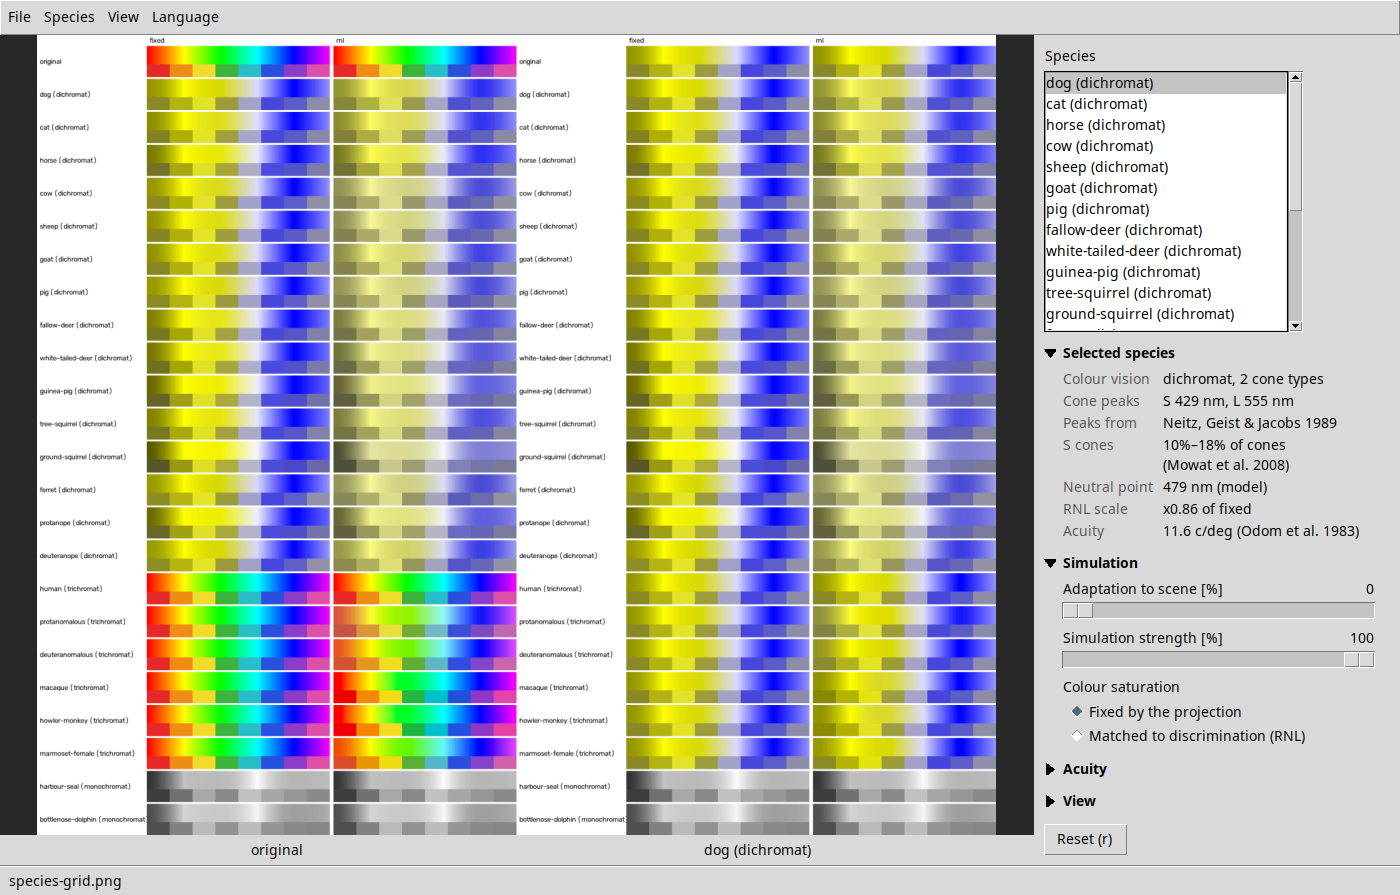
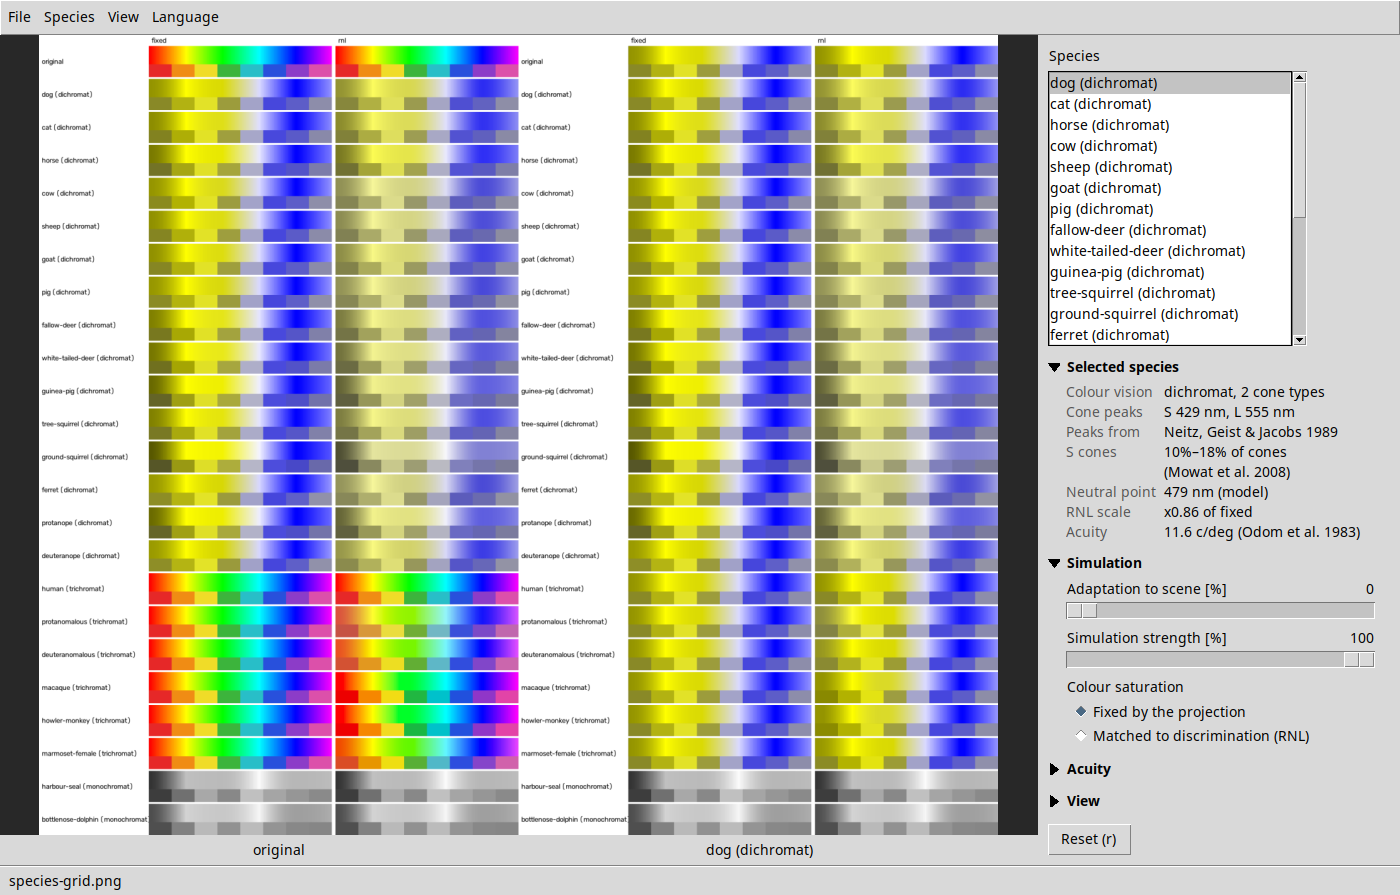
feat: let the selected species' facts be selected and copied
The facts were labels, which Tk cannot select, so a cone peak or a
citation had to be typed out by hand. They are now one read-only Text:
a drag selects, Ctrl+A selects all, and Ctrl+C or a right click copies,
each fact as its name, a tab and its value.

diff --git a/src/dog_vision/gui/tk.py b/src/dog_vision/gui/tk.py
@@ -120,19 +120,25 @@ def warn_without_xft(root: tk.Tk) -> None:
 
 
 class Tooltip:
-    """Text that appears beside the pointer while it rests on a widget."""
+    """Text that appears beside the pointer while it rests on a widget, or on a tag's text in a Text widget."""
 
-    def __init__(self, widget: tk.Misc, text) -> None:
+    def __init__(self, widget: tk.Misc, text, tag: str | None = None) -> None:
         self.widget = widget
         self.text = text  # called on showing, so it gives the current language
         self.window: tk.Toplevel | None = None
         self.pending: str | None = None
-        widget.bind("<Enter>", self._schedule, add="+")
-        for event in ("<Leave>", "<ButtonPress>", "<Destroy>"):
-            widget.bind(event, self._hide, add="+")
+        if tag is None:
+            widget.bind("<Enter>", self._schedule, add="+")
+            for event in ("<Leave>", "<ButtonPress>", "<Destroy>"):
+                widget.bind(event, self.hide, add="+")
+        else:
+            # A tag outlives its text, so whoever deletes the text hides the tooltip.
+            widget.tag_bind(tag, "<Enter>", self._schedule)
+            for event in ("<Leave>", "<ButtonPress>"):
+                widget.tag_bind(tag, event, self.hide, add="+")
 
     def _schedule(self, _event: tk.Event) -> None:
-        self._hide()
+        self.hide()
         self.pending = self.widget.after(TOOLTIP_DELAY_MS, self._show)
 
     def _show(self) -> None:
@@ -161,7 +167,7 @@ class Tooltip:
             y -= height + 32
         self.window.wm_geometry(f"+{max(0, x)}+{max(0, y)}")
 
-    def _hide(self, _event: tk.Event | None = None) -> None:
+    def hide(self, _event: tk.Event | None = None) -> None:
         if self.pending is not None:
             self.widget.after_cancel(self.pending)
             self.pending = None
@@ -381,8 +387,31 @@ def run(session: LiveSession) -> None:
     text(facts_section.title, "Selected species")
     facts_section.frame.grid(row=2, column=0, sticky="ew")
     facts_frame = facts_section.body
-    facts_frame.columnconfigure(1, weight=1)
     fact_font = font.nametofont("TkDefaultFont")
+    # Text, not labels, so that the facts can be selected and copied; a tab stop makes the values a column.
+    facts = tk.Text(
+        facts_frame,
+        width=1,  # the column's minsize gives the width
+        wrap="none",
+        font=fact_font,
+        borderwidth=0,
+        highlightthickness=0,
+        padx=0,
+        pady=0,
+        background=ttk.Style(root).lookup("TFrame", "background"),
+        foreground=ttk.Style(root).lookup("TLabel", "foreground") or "black",
+    )
+    facts.grid(row=0, column=0, sticky="ew")
+    facts.tag_configure("name", foreground="#555555")
+    fact_tooltips: list[Tooltip] = []
+    # A disabled Text is focused by a click only on Windows, and without focus Ctrl+C does not reach it.
+    facts.bind("<Button-1>", lambda _event: facts.focus_set(), add="+")
+
+    def select_all_facts() -> str:
+        facts.tag_add("sel", "1.0", "end-1c")
+        return "break"  # Tk's own Ctrl+A goes to the line's start
+
+    facts.bind("<Control-a>", lambda _event: select_all_facts())
     fact_widths: dict[str, int] = {}  # by language
 
     def fact_width() -> int:
@@ -408,13 +437,20 @@ def run(session: LiveSession) -> None:
         return "\n".join(lines)
 
     def show_facts() -> None:
-        for child in facts_frame.winfo_children():
-            child.destroy()
+        for tooltip in fact_tooltips:
+            tooltip.hide()
+        fact_tooltips.clear()
+        facts.configure(state="normal")
+        facts.delete("1.0", "end")
         for row, (label, value, description) in enumerate(session.species_facts()):
-            name = ttk.Label(facts_frame, text=label, foreground="#555555")
-            name.grid(row=row, column=0, sticky="nw", padx=(0, FACT_GAP))
-            Tooltip(name, lambda description=description: description)
-            ttk.Label(facts_frame, text=fact_text(value)).grid(row=row, column=1, sticky="w")
+            tag = f"name{row}"
+            facts.insert("end", "\n" if row else "")
+            facts.insert("end", label, ("name", tag))
+            # A fact's further lines start at the tab stop too, under its first.
+            facts.insert("end", "\t" + fact_text(value).replace("\n", "\n\t"))
+            fact_tooltips.append(Tooltip(facts, lambda description=description: description, tag))
+        lines = int(facts.index("end-1c").split(".")[0])
+        facts.configure(state="disabled", height=lines)
         fit_panel()  # species have more or fewer facts
 
     simulation = Section(side, section_font, is_open=True, on_toggle=fit_panel)
@@ -557,15 +593,12 @@ def run(session: LiveSession) -> None:
         Grid gives the panel the width its open sections ask for and the images the rest, so
         without this the images would narrow and widen as sections open and close.
         """
-        # Each column of the facts as wide as any species needs it, from labels measured but never shown.
+        # The names and the values of the facts, each as wide as any species needs them.
         rows = [row for name in session.species_names for row in session.species_facts(name)]
-        for column, texts in enumerate(({label for label, _v, _d in rows}, {fact_text(value) for _l, value, _d in rows})):
-            probes = [ttk.Label(facts_frame, text=text) for text in texts]
-            # A column's minsize includes the padding of what it holds; the names are padded.
-            gap = FACT_GAP if column == 0 else 0
-            facts_frame.columnconfigure(column, minsize=max(probe.winfo_reqwidth() for probe in probes) + gap)
-            for probe in probes:
-                probe.destroy()
+        names = max(fact_font.measure(label) for label, _v, _d in rows) + FACT_GAP
+        values = max(fact_font.measure(line) for _l, value, _d in rows for line in fact_text(value).split("\n"))
+        facts.configure(tabs=(names,))
+        facts_frame.columnconfigure(0, minsize=names + values)
         closed = [section for section in sections if not section.is_open]
         for section in closed:
             section.body.grid()
@@ -671,6 +704,20 @@ def run(session: LiveSession) -> None:
             )
 
     fill_species_menus()
+
+    # What a right click on the species' facts offers.
+    facts_menu = tk.Menu(facts, tearoff=False)
+    copy_facts = entry(
+        facts_menu, "command", "Copy", command=lambda: facts.event_generate("<<Copy>>"), accelerator="Ctrl+C"
+    )
+    entry(facts_menu, "command", "Select all", command=select_all_facts, accelerator="Ctrl+A")
+
+    def post_facts_menu(event: tk.Event) -> None:
+        facts.focus_set()  # the copy goes to the focused widget
+        enable(facts_menu, copy_facts, bool(facts.tag_ranges("sel")))
+        facts_menu.tk_popup(event.x_root, event.y_root)
+
+    facts.bind("<Button-2>" if root.tk.call("tk", "windowingsystem") == "aqua" else "<Button-3>", post_facts_menu)
 
     language = tk.StringVar(value=session.language)
 

diff --git a/src/dog_vision/core/i18n.py b/src/dog_vision/core/i18n.py
@@ -42,6 +42,8 @@ CZECH = {
     "Side panel": "Boční panel",
     "Side by side": "Vedle sebe",
     "Map of differences": "Mapa rozdílů",
+    "Copy": "Kopírovat",
+    "Select all": "Vybrat vše",
     "Open a photo or a video": "Otevřít fotku nebo video",
     "Photos and videos": "Fotky a videa",
     "All files": "Všechny soubory",

diff --git a/README.md b/README.md
@@ -121,6 +121,8 @@ facts about the dog and the simulation's controls on the right](docs/window.png)
 | *Language* menu                 | the window's language, starting as the system's     |
 
 Resting the pointer on a label, a box or a button shows what it means, in a few paragraphs.
+The facts under *Selected species* are text: a drag selects them, Ctrl+A selects them all, and
+Ctrl+C or a right click copies them.
 
 - **An open file is shown scaled down** if it is large, so that the controls stay quick; *Convert
   file* works on it at full size, with the method described under
